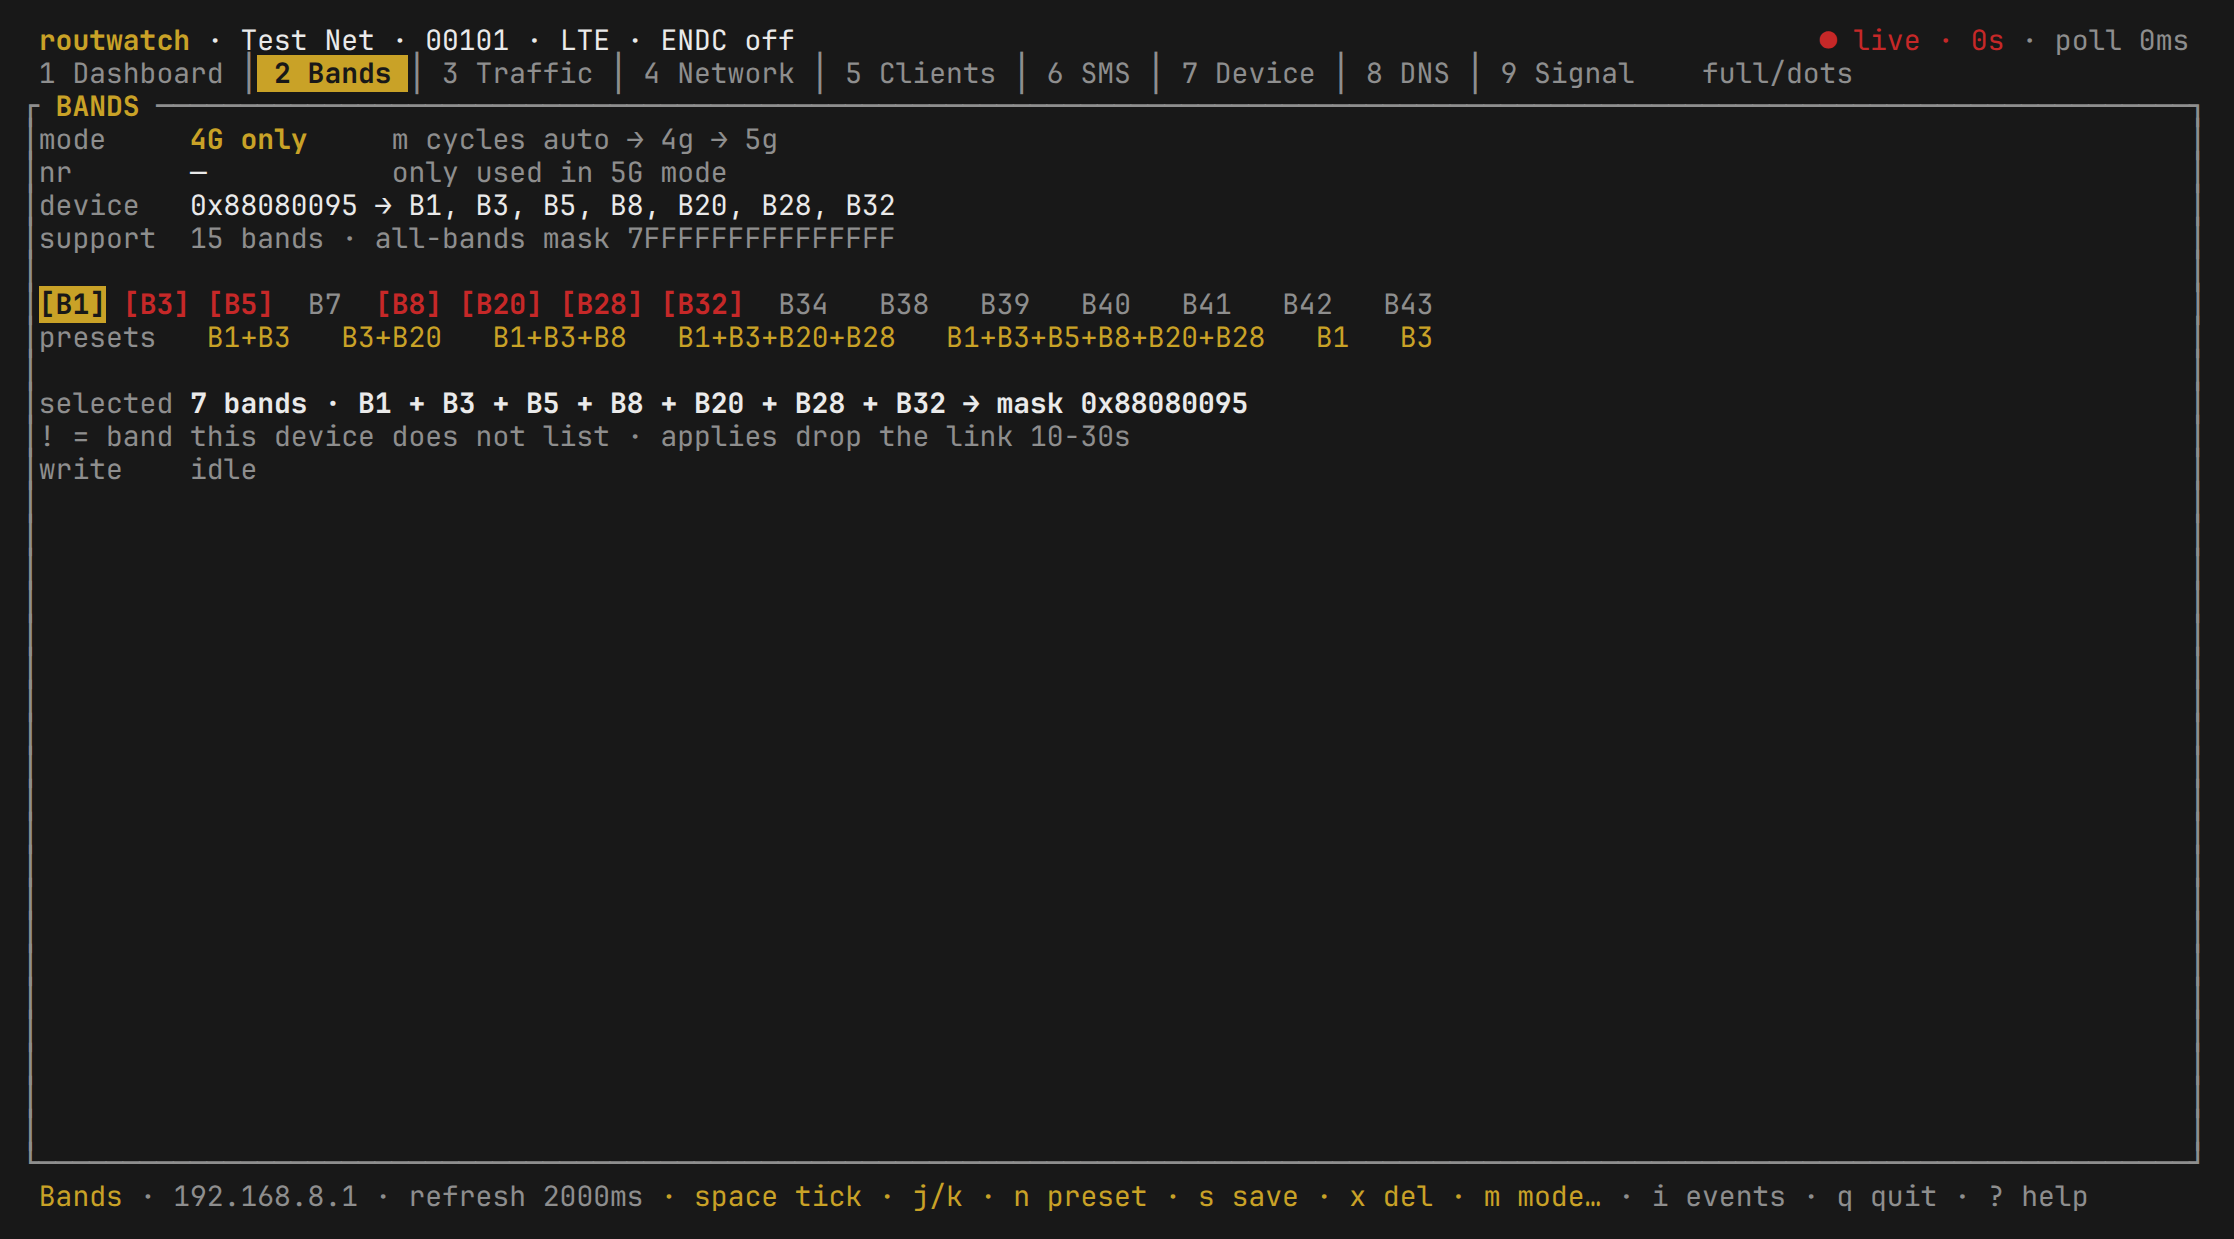
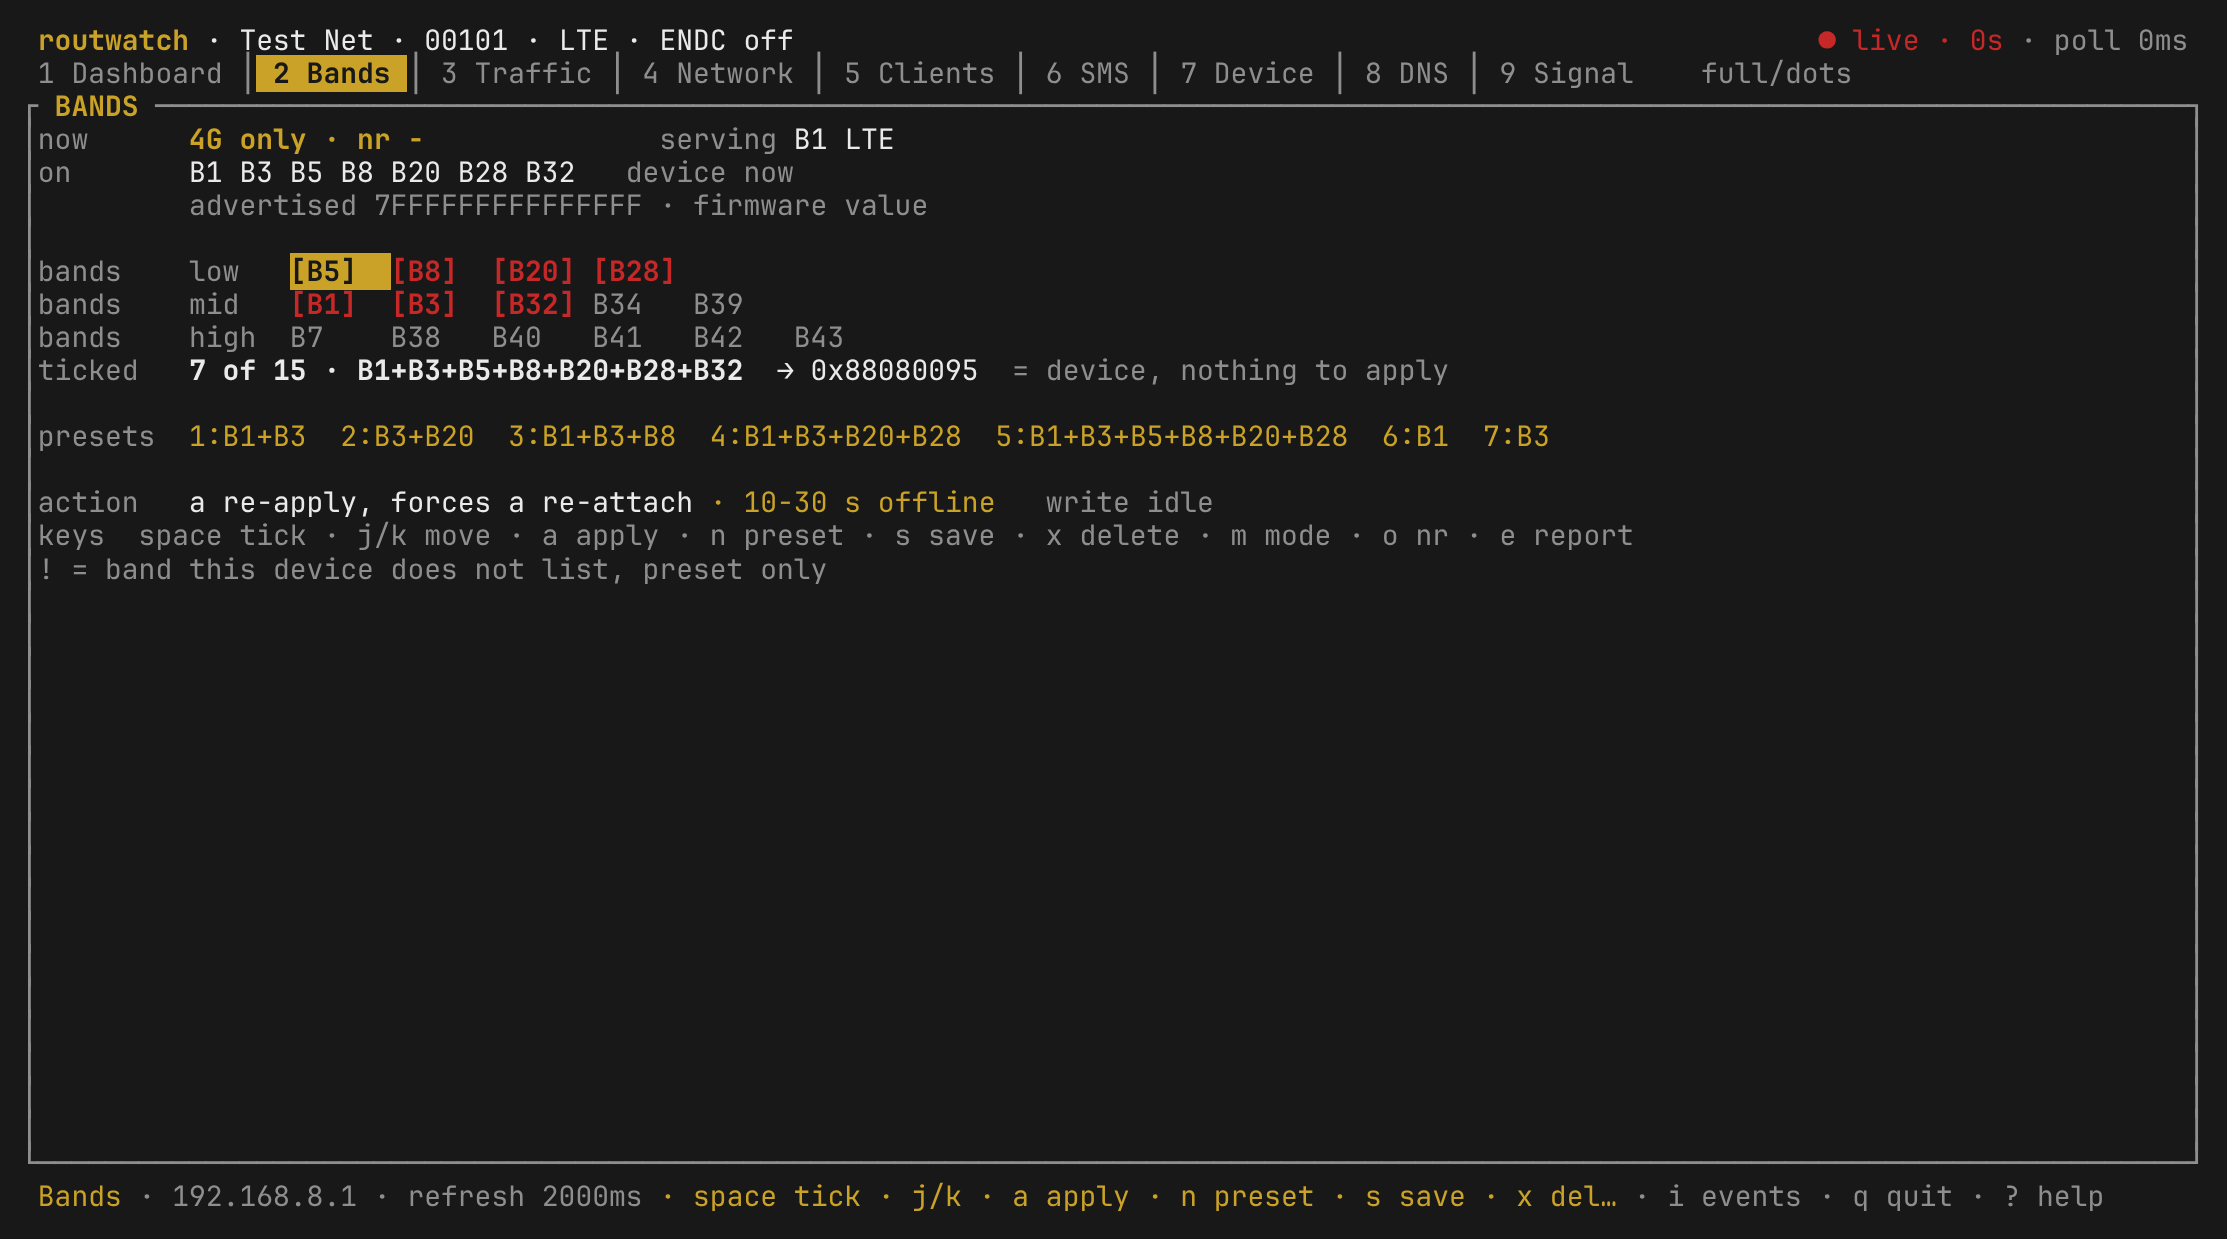
docs(bands): describe the grouped grid and refresh the screenshot

diff --git a/README.md b/README.md
@@ -199,6 +199,10 @@ is the last thing dropped.
 Select several bands (`space`), save the combination as a preset (`s`), and cycle
 the ready-made ones with `n`. Nothing is sent until `a` and `y`.
 
+The grid is grouped `low` / `mid` / `high` by frequency, so dropping every low
+band is visible before it costs you range; the band the radio is on is
+underlined, and the panel says when your tick already equals the device.
+
 ![routwatch bands](docs/screenshots/02-bands.png)
 
 Presets live in `~/.config/routwatch/config.toml` (`[[app.presets]]`). No
@@ -326,7 +330,7 @@ routwatch preview --tab bands --size 120x30 --ansi
 ## Development
 
 ```sh
-cargo test                 # 255 unit + 7 binary + 9 CLI tests (the CLI file is local, not published; the unit tests read fixtures/)
+cargo test                 # 268 unit + 7 binary + 9 CLI tests (the CLI file is local, not published; the unit tests read fixtures/)
 cargo clippy --all-targets # zero warnings
 cargo fmt --check
 ```
